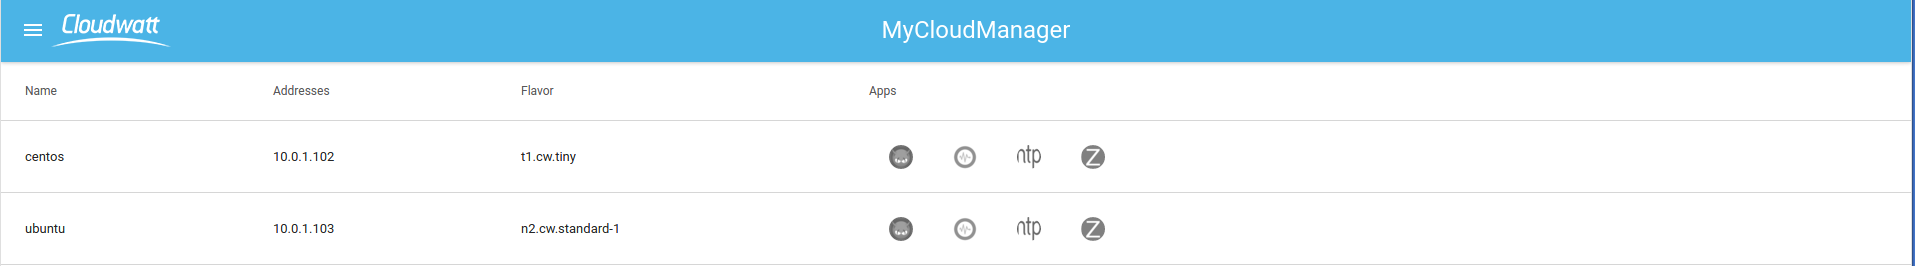
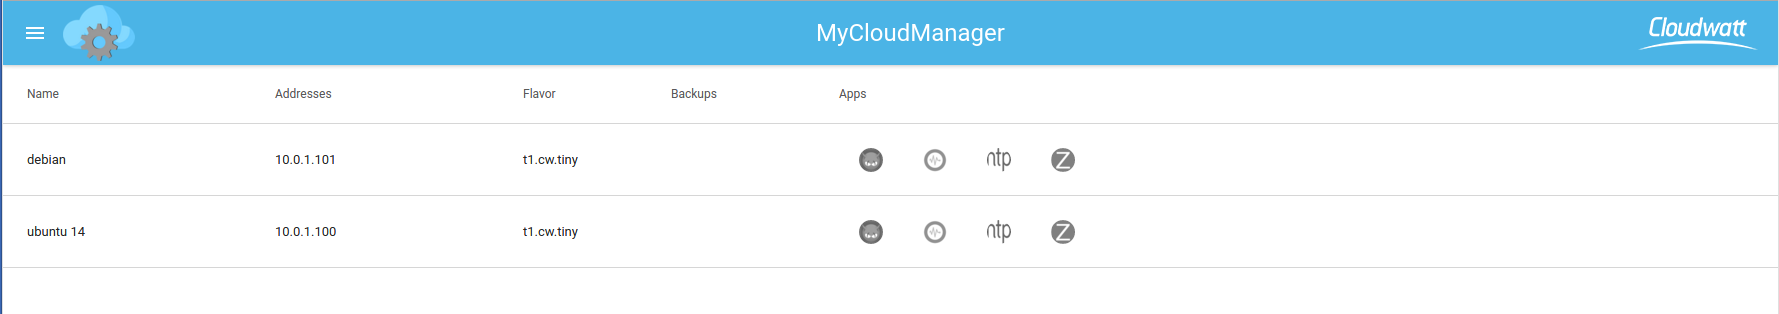
article v2

diff --git a/articlev2/application-mycloudmanager-v2/README.md b/articlev2/application-mycloudmanager-v2/README.md
@@ -10,10 +10,10 @@ Cette deuxième version de MyCloudManager (version Beta). Celle-ci a pour but de
 * Synchronisation de temps
 
 MyCloudManager a entièrement été développé par l'équipe CAT - Cloudwatt Automation Team.
-* Cette Stack est entièrement HA (Haute Dispo)
+* MyCloudManager est entièrement HA (Haute Dispo)
 * Il repose sur une instance CoreOS
-* L'ensemble des applications se déploie dans des conteneurs Docker orchestré par Kubernetes
-* L'interface utilisateur est construite en technologie React
+* L'ensemble des applications se déploient dans des conteneurs Docker orchestrés par Kubernetes
+* L'interface utilisateur est developpé en React
 * De plus vous pouvez installer ou configurer, depuis l'interface graphique, l'ensemble des applications sur vos instances via des playbooks Ansible
 * Afin de sécuriser au maximum votre MyCloudManager, aucun port n'est exposé sur internet mis à part le port 22 pour le management des instances de la stack ainsi que le port 1723 pour l'accès VPN PPTP.
 
@@ -191,17 +191,51 @@ Nous avons mis en place une section **audit** afin que vous puissiez voir l'ense
 
 ![audit](img/audit.png)
 
-La section **Backups** vous permet de sauvegarder l'ensemble des instances rattachées à MyCloudManager, le backup peut-être effectué de deux façon, via un `snapshot` ou via `duplicity` que l'on a appelé `soft`. Le snapshot va prendre une photo de l'instance au moment ou vous avez schedulé le backup et vous pourrez le retrouver dans la liste de vos image sur votre tenant. Le backup soft va lui déployer un contener duplicity et sauvegarder l'ensemble du contenu du ou des répertoires que vous avez séléctionnés (`/data`ou `/config`) dans un contener **swift** que vous pourrez egalement retrouver dans la partie **Containers** de votre tenant.
+La section **Backups** vous permet de sauvegarder l'ensemble des instances rattachées à MyCloudManager, le backup peut-être effectué de deux façon, via un `snapshot` ou via `duplicity` que l'on a appelé `soft`. Le snapshot va prendre une photo de l'instance au moment ou vous avez schedulé le backup. Vous pourrez ensuite le retrouver dans la liste de vos images sur votre tenant. Le backup soft va lui déployer un conteneur duplicity et sauvegarder l'ensemble du contenu du ou des répertoires que vous avez séléctionné (`/data`ou `/config`) dans un contener **swift** que vous pourrez également retrouver dans la partie **Containers** de votre tenant.
 Si vous souhaitez sauvegarder un groupe de serveur il vous faudra alors les séléctionner lors de la création du backup.
-En ce qui concerne la programation des backups plusieurs choix s'offre à vous :
+En ce qui concerne la programmation des backups plusieurs choix s'offre à vous :
 * Daily : un backup par jour à l'heure souhaitée,
 * Weekly: un backup par semaine au jour et à l'heure souhaité,
 * Montly : un backup par mois à la date et a l'heure souhaitée.
+
+Afin de commencer une nouvelle configuration de backup il faut cliquer sur le bouton![bouton](img/plus.png)
+
+Donner un nom à votre configuration de backup :
+![newconfig](img/backupinfo.png)
+
+Selectionner les serveurs que vous voulez ajouter :
+![Backupselectsrv](img/selectsrv.png)
+
+Définissez maintenant **quand** et **comment** le backup de ses serveurs sera fait :
+
+* Snapshot (Prend une "photo" de votre instance et la dépose dans votre bibliothèque d'image sur votre tenant)
+![bkpsnapshot](img/bkpsnapshot.png)
+
+* Soft (Copie l'intégralité des répertoires coché dans un conteneur swift)
+![bkpsoft](img/bkpsoft.png)
+
+
+Une fois que vous avez cliqué sur le bouton finish votre configuration est à présent sauvegardée :
+
+![bkpsvg](img/bkpsvg.png)
+
+Vous pouvez à tout moment modifier la configuration d'un backup via le bouton **editer** ![bkpedit](img/bkpedit.png) qui vous permet d'ajouter ou de supprimer des serveurs, de modifier le ou les répertoires à sauvegarder ainsi que le moment où celui ci sera exécuté.  Le bouton **supprimer** ![bkpdelete](img/bkpdelete.png) quant à lui, permet de supprimer complètement le backup selectionné.
 
 
 Nous avons intégré 2 liens dans le menu de MyCloudManager : **My Instances** et **My Account**. Ils servent respectivement à accéder à la console Horizon Cloudwatt et à la gestion de votre compte via l'interface Cockpit.
 
 La section **Support** va vous permettre comme son nom l'indique de contacter le support en cas de demande ou incident sur MyCloudManager. Vous pouvez aussi contacter un **CloudCoach** afin d'avoir de plus ample information en ce qui concerne notre ecosystem ou la faisabilité de vos différents projets que vous souhaitez porter sur le cloud.
+
+Email :
+* Choissez votre besoin **Email Support** ou **Contact a Cloud Coach**,
+* Le champ **type** va vous permettre de choisir entre **demande** ou **incident**,
+* Le champ **Reply Email Address** va permettre au support ou au cloud coach d'avoir votre adresse afin de pouvoir vous répondre,
+* le Champ **Request/Problems encountered** constitue le corps du mail.
+
+![supportemail](img/supportemail.png)
+
+l'envoie du mail se fait via le bouton ![sendmail](img/sendmail.png). Celui-ci devient ![mailsend](img/mailsend.png) si le mail est correctement envoyé ou ![mailfail](img/mailfail.png) si le serveur à rencontré une erreur pendant l'envoie.
+
 
 
 ### Ajouter des instances à MyCloudManager
@@ -325,7 +359,7 @@ Pour aller plus loin voici quelques liens utiles:
 
 ## Les versions
 
-### MyCloudManager **v1** (Beta)
+### MyCloudManager **v2** (Beta)
 
   - CoreOS Stable 1010.6
   - Docker 1.9.1
